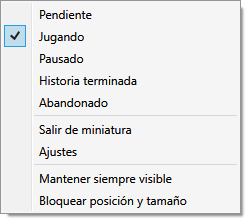
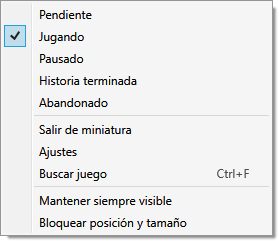
Open visible collection search from miniature and friends

diff --git a/src/Checkpoint.App/NativeSmokeTests.cs b/src/Checkpoint.App/NativeSmokeTests.cs
@@ -428,6 +428,8 @@ public partial class MainWindow
                 miniatureRow.ContextMenu.Items.OfType<MenuItem>().Any(i => (string?)i.Header == "Exit miniature view"), "miniature game menu opens with localized English states and exit");
             Check(MiniatureAction(miniatureRow.ContextMenu,"Mantener siempre visible").Header.Equals("Always on top") &&
                 MiniatureAction(Shell.ContextMenu,"Bloquear posición y tamaño").Header.Equals("Lock position and size"), "miniature quick window actions switch to English in both menus");
+            Check((string?)MiniatureAction(miniatureRow.ContextMenu,"Buscar juego").Header == "Search games" &&
+                MiniatureAction(Shell.ContextMenu,"Buscar juego").InputGestureText == "Ctrl+F", "miniature search action is localized and exposes its shortcut");
             RenderElement(miniatureRow.ContextMenu,Path.Combine(outputDirectory,"miniature-state-menu-en.png"));
             miniatureRow.ContextMenu.IsOpen = false;
             Preferences.Language = "es"; ApplyLanguage();
@@ -457,6 +459,25 @@ public partial class MainWindow
             Preferences.GridView = true; Preferences.Compact = false; ApplyPreferences(); Refresh();
             CycleView(); Check(Preferences.MiniatureView, "view cycle enters miniature after grid");
             CycleView(); Check(!Preferences.MiniatureView && !Preferences.GridView && !Preferences.Compact, "view cycle exits miniature to list");
+            Search.Text = "Hades"; FocusCollectionSearch();
+            Check(Search.IsKeyboardFocused && Search.SelectedText == "Hades" && visibleCards.Count == 1, "collection search focuses and selects the existing query without clearing its results");
+            friendsVisible = true; Refresh(); FocusCollectionSearch();
+            Check(!friendsVisible && FriendsHost.Visibility == Visibility.Collapsed && FilterArea.IsVisible && Search.IsKeyboardFocused && Search.Text == "Hades",
+                "search from friends opens the visible collection search without changing its query");
+            Search.Clear(); Preferences.MiniatureView = true; ApplyPreferences(); Refresh();
+            double searchMiniWidth = Width, searchMiniHeight = Height;
+            MiniatureAction(Shell.ContextMenu,"Buscar juego").RaiseEvent(new RoutedEventArgs(MenuItem.ClickEvent));
+            Check(!Preferences.MiniatureView && !Store.LoadSettings().MiniatureView && FilterArea.IsVisible && Search.IsKeyboardFocused &&
+                Preferences.MiniatureWidth == searchMiniWidth && Preferences.MiniatureHeight == searchMiniHeight,
+                "miniature search menu opens and persists the normal view while retaining miniature dimensions");
+            Preferences.MiniatureView = true; ApplyPreferences(); Refresh(); FocusMiniatureCard(visibleCards[0]);
+            var searchRow = VisualChildren(GameList).OfType<Grid>().First(g => g.ContextMenu is not null && g.DataContext is CardView);
+            var searchMenu = searchRow.ContextMenu;
+            searchMenu.PlacementTarget = searchRow; searchMenu.IsOpen = true;
+            await Dispatcher.InvokeAsync(UpdateLayout, DispatcherPriority.ContextIdle);
+            MiniatureAction(searchMenu,"Buscar juego").RaiseEvent(new RoutedEventArgs(MenuItem.ClickEvent)); searchMenu.IsOpen = false;
+            await Task.Delay(20); await Dispatcher.InvokeAsync(UpdateLayout, DispatcherPriority.ContextIdle);
+            Check(!Preferences.MiniatureView && Search.IsKeyboardFocused && FilterArea.IsVisible, "game search menu keeps focus in the visible search after the popup closes");
             File.WriteAllText(Path.Combine(outputDirectory, "smoke.json"), JsonSerializer.Serialize(new { ok = true, checks = checks.Count, assertions = checks }, DataJson.Options));
             Console.WriteLine($"WPF smoke test passed: {checks.Count} checks, {outputDirectory}");
         }

diff --git a/src/Checkpoint.App/MainWindow.xaml.cs b/src/Checkpoint.App/MainWindow.xaml.cs
@@ -117,7 +117,7 @@ public partial class MainWindow : Window
         PreviewKeyDown += (_, e) =>
         {
             if (e.Key == Key.N && Keyboard.Modifiers == ModifierKeys.Control) { Dialogs.Edit(this, null); e.Handled = true; }
-            if (e.Key == Key.F && Keyboard.Modifiers == ModifierKeys.Control) { Search.Focus(); e.Handled = true; }
+            if (e.Key == Key.F && Keyboard.Modifiers == ModifierKeys.Control) { FocusCollectionSearch(); e.Handled = true; }
             if (e.Key == Key.F6) { CycleView(); e.Handled = true; }
             if (e.Key == Key.Z && Keyboard.Modifiers == ModifierKeys.Control && Keyboard.FocusedElement is not TextBoxBase) { UndoLastDeletion(); e.Handled = true; }
             if (e.Key == Key.Escape) { Hide(); e.Handled = true; }
@@ -327,12 +327,25 @@ public partial class MainWindow : Window
         var settings = new System.Windows.Controls.MenuItem { Header = I18n.T("Ajustes") };
         settings.Click += (_, _) => Dialogs.Settings(this);
         menu.Items.Add(restore); menu.Items.Add(settings);
+        var search = new System.Windows.Controls.MenuItem { Header = I18n.T("Buscar juego"), InputGestureText = "Ctrl+F" };
+        search.Click += (_, _) => FocusCollectionSearch();
+        menu.Items.Add(search);
         menu.Items.Add(new Separator());
         var pin = new System.Windows.Controls.MenuItem { Header = I18n.T("Mantener siempre visible"), IsCheckable = true, IsChecked = Preferences.AlwaysOnTop };
         pin.Click += (_, _) => { Preferences.AlwaysOnTop = pin.IsChecked; ApplyPreferences(); Persist(); };
         var position = new System.Windows.Controls.MenuItem { Header = I18n.T("Bloquear posición y tamaño"), IsCheckable = true, IsChecked = Preferences.PositionLocked };
         position.Click += (_, _) => { Preferences.PositionLocked = position.IsChecked; ApplyPreferences(); Persist(); };
         menu.Items.Add(pin); menu.Items.Add(position);
+    }
+    private void FocusCollectionSearch()
+    {
+        friendsVisible = false;
+        if (Preferences.MiniatureView)
+        {
+            Preferences.MiniatureView = false; Preferences.GridView = false; Preferences.Compact = false;
+            ApplyPreferences(); CaptureBounds(); Store.SaveSettings(Preferences);
+        }
+        Refresh(); Search.Focus(); Search.SelectAll();
     }
     private void CycleView()
     {

diff --git a/README.es.md b/README.es.md
@@ -18,12 +18,12 @@ Capturas de la aplicación Windows 0.6.1 renderizadas durante las pruebas nativa
 
 ## Descargar y utilizar
 
-La versión actual es **0.6.8**. En la carpeta `dist` se generan:
+La versión actual es **0.6.9**. En la carpeta `dist` se generan:
 
-Descarga el portable o instalador desde [GitHub Releases](https://github.com/Nicolasmf05/Checkpoint/releases/tag/v0.6.8), o compila con las instrucciones de este repositorio. El workflow **Build and verify** también genera el ZIP y MSI como artefactos cuando finaliza correctamente.
+Descarga el portable o instalador desde [GitHub Releases](https://github.com/Nicolasmf05/Checkpoint/releases/tag/v0.6.9), o compila con las instrucciones de este repositorio. El workflow **Build and verify** también genera el ZIP y MSI como artefactos cuando finaliza correctamente.
 
-- `Checkpoint-0.6.8-win-x64.msi`: instalador por usuario con acceso en el menú Inicio y desinstalación desde Windows.
-- `Checkpoint-0.6.8-win-x64.zip`: edición portable. Extrae el ZIP y abre `Checkpoint/Checkpoint.exe`. Todos los archivos quedan dentro de la carpeta `Checkpoint`.
+- `Checkpoint-0.6.9-win-x64.msi`: instalador por usuario con acceso en el menú Inicio y desinstalación desde Windows.
+- `Checkpoint-0.6.9-win-x64.zip`: edición portable. Extrae el ZIP y abre `Checkpoint/Checkpoint.exe`. Todos los archivos quedan dentro de la carpeta `Checkpoint`.
 - Archivos `.sha256`: comprobación de integridad.
 
 Los paquetes incluyen el runtime de .NET; el usuario no necesita instalar herramientas de desarrollo. La versión x64 está dirigida a Windows 11; Windows 10 no ha sido validado. La compilación ARM64 está preparada en el script, pero no se ha probado en hardware ARM.
@@ -40,6 +40,7 @@ Windows x64 (Windows 11 probado), carpeta accesible para tu usuario y espacio pa
 
 - **Cambio rápido de estado en Miniatura:** clic derecho sobre un juego para elegir su estado. El actual aparece marcado; se guarda sin salir de la lista de nombre/estado.
 - **Acciones de ventana en Miniatura:** clic derecho en el fondo o un juego para activar Mantener siempre visible o Bloquear posición y tamaño. Las marcas reflejan los ajustes guardados.
+- **Búsqueda desde cualquier vista:** Ctrl+F abre la búsqueda de la colección y selecciona su consulta actual. Desde Miniatura vuelve a la lista normal y conserva su tamaño pequeño; desde Amigos vuelve a la colección. Los menús de Miniatura también ofrecen Buscar juego.
 - **Teclado en Miniatura:** ↑/↓ recorren juegos, Inicio/Fin van al primero/último y Enter/Espacio abren el menú de estados. Un contorno marca la fila activa; recupera el foco al cerrar el menú o cambiar estado.
 - **Vista Miniatura:** solo nombres y estados en una ventana pequeña y translúcida. Ajustes → Vista de la colección → Miniatura, o cambia con F6. Clic derecho → Salir de miniatura. Tamaño independiente del widget normal; se mueve desde el borde superior. Muestra Mi lista, sin filtros ni descargas de carátulas.
 - **Modo ligero opcional:** Ajustes → Modo ligero (sin carátulas). Oculta imágenes de colección/amigos, evita nuevas descargas y vacía la caché decodificada. Conserva el progreso y los archivos guardados.
@@ -61,7 +62,7 @@ Windows x64 (Windows 11 probado), carpeta accesible para tu usuario y espacio pa
 
 **Historia terminada y todos los logros son independientes.** La sincronización nunca decide que has terminado una historia y conserva los datos previos si Steam falla.
 
-Atajos: `Ctrl+Alt+C` muestra u oculta; `Ctrl+N` añade un juego; `Ctrl+F` busca; `F6` alterna las tres vistas; `Ctrl+Z` recupera el último juego eliminado cuando no estás editando texto; `Escape` oculta. Si otro programa ocupa `Ctrl+Alt+C`, puedes abrir Checkpoint desde la bandeja.
+Atajos: `Ctrl+Alt+C` muestra u oculta; `Ctrl+N` añade un juego; `Ctrl+F` busca; `F6` alterna lista, compacta, cuadrícula y Miniatura; `Ctrl+Z` recupera el último juego eliminado cuando no estás editando texto; `Escape` oculta. Si otro programa ocupa `Ctrl+Alt+C`, puedes abrir Checkpoint desde la bandeja.
 
 Para reordenar, arrastra el asa `⠿` de un juego hasta otro: la mitad superior coloca antes y la inferior después. También puedes enfocar el asa con Tab y usar `Alt+↑` / `Alt+↓`. Los favoritos permanecen arriba; puedes reordenar dentro de cada grupo. Los juegos ocultos por los filtros conservan su orden relativo. El botón de vista de la esquina inferior y Ajustes permiten elegir lista, compacta o cuadrícula; esta última cambia de columnas al redimensionar.
 
@@ -137,7 +138,7 @@ dotnet run --project src/Checkpoint.App -c Release --no-build -- --data-dir "$PW
 
 Usa siempre una carpeta nueva para `--smoke-test`: esta comprobación modifica su biblioteca de prueba y rechaza una carpeta con biblioteca o sesión existentes. El modo `--demo` añade tres juegos de ejemplo únicamente a una biblioteca vacía. No inventa logros. Las pruebas de Steam y las pruebas del diálogo de logros usan respuestas simuladas y no necesitan contraseñas ni claves reales.
 
-`Build.ps1` comprueba también el ZIP recién generado: lo extrae a `.qa`, ejecuta su app autocontenida y valida búsqueda, vistas, reordenación, persistencia, diálogos, secretos, recuperación, copias con imágenes, cuentas y amistades simuladas, y virtualización con 1.003 juegos. Puedes repetir solo esa comprobación con `./scripts/Verify-Package.ps1 -ZipPath ./dist/Checkpoint-0.6.8-win-x64.zip`. Las imágenes y el informe quedan en `.qa/package-…/render`. La ejecución ARM64 necesita un equipo Windows ARM64; en otros equipos se comprueba la estructura del paquete.
+`Build.ps1` comprueba también el ZIP recién generado: lo extrae a `.qa`, ejecuta su app autocontenida y valida búsqueda, vistas, reordenación, persistencia, diálogos, secretos, recuperación, copias con imágenes, cuentas y amistades simuladas, y virtualización con 1.003 juegos. Puedes repetir solo esa comprobación con `./scripts/Verify-Package.ps1 -ZipPath ./dist/Checkpoint-0.6.9-win-x64.zip`. Las imágenes y el informe quedan en `.qa/package-…/render`. La ejecución ARM64 necesita un equipo Windows ARM64; en otros equipos se comprueba la estructura del paquete.
 
 La integración con una cuenta real y la instalación/desinstalación del MSI deben validarse en un entorno de lanzamiento antes de publicar. Consulta [docs/VALIDATION.md](docs/VALIDATION.md).
 
@@ -147,11 +148,11 @@ El proyecto incluye `.gitignore`, licencia MIT, documentación, pruebas y un wor
 
 Publica únicamente los archivos de código y documentación. `.tools`, `.qa`, `dist`, `.env`, bases de datos y tokens son locales y se excluyen.
 
-También se entrega `dist/Checkpoint-source-0.6.8.zip`, con el código limpio para trasladarlo a GitHub. `scripts/Export-Source.ps1` lo regenera usando ripgrep y las exclusiones de `.gitignore`. La versión de los ejecutables, nombres de archivo e instalador se toma de `Directory.Build.props`.
+También se entrega `dist/Checkpoint-source-0.6.9.zip`, con el código limpio para trasladarlo a GitHub. `scripts/Export-Source.ps1` lo regenera usando ripgrep y las exclusiones de `.gitignore`. La versión de los ejecutables, nombres de archivo e instalador se toma de `Directory.Build.props`.
 
 ## Próximas versiones
 
-El backend de cuentas y amistades está desplegado en Supabase y la app 0.6.8 incorpora la pestaña Amigos. Han pasado 33 comprobaciones SQL y 7 HTTP del backend; queda validar el registro y el intercambio de imágenes con dos cuentas reales. El estado, configuración pública y pasos pendientes están en [docs/SUPABASE.md](docs/SUPABASE.md).
+El backend de cuentas y amistades está desplegado en Supabase y la app 0.6.9 incorpora la pestaña Amigos. Han pasado 33 comprobaciones SQL y 7 HTTP del backend; queda validar el registro y el intercambio de imágenes con dos cuentas reales. El estado, configuración pública y pasos pendientes están en [docs/SUPABASE.md](docs/SUPABASE.md).
 
 Notificaciones, estadísticas mensuales y sincronización de la biblioteca entre equipos quedan para futuras versiones. Consulta [docs/ROADMAP.md](docs/ROADMAP.md) y [CHANGELOG.md](CHANGELOG.md).
 

diff --git a/README.md b/README.md
@@ -18,13 +18,13 @@ Captures use real WPF controls rendered during native tests. Games, users and fr
 
 ## Download and run
 
-Current version: **0.6.8**. Build outputs in `dist`:
+Current version: **0.6.9**. Build outputs in `dist`:
 
-- `Checkpoint-0.6.8-win-x64.zip`: portable edition. Extract the ZIP and open `Checkpoint/Checkpoint.exe`. All files stay inside the `Checkpoint` folder.
-- `Checkpoint-0.6.8-win-x64.msi`: per-user installer with Start menu shortcut and Windows uninstall support.
+- `Checkpoint-0.6.9-win-x64.zip`: portable edition. Extract the ZIP and open `Checkpoint/Checkpoint.exe`. All files stay inside the `Checkpoint` folder.
+- `Checkpoint-0.6.9-win-x64.msi`: per-user installer with Start menu shortcut and Windows uninstall support.
 - `.sha256` files: integrity checksums.
 
-Download the portable ZIP or MSI from [GitHub Releases](https://github.com/Nicolasmf05/Checkpoint/releases/tag/v0.6.8), or build from source below. The **Build and verify** GitHub Actions workflow also produces artifacts after a successful run. Packages include the .NET runtime; end users need no development tools. Windows 11 x64 is the target. Windows 10 and ARM64 hardware have not been validated; ARM64 packaging is supported. The MSI and EXE are unsigned; Windows may warn or block them. See [Windows security messages](docs/en/WINDOWS-SECURITY.md). No private certificates are included.
+Download the portable ZIP or MSI from [GitHub Releases](https://github.com/Nicolasmf05/Checkpoint/releases/tag/v0.6.9), or build from source below. The **Build and verify** GitHub Actions workflow also produces artifacts after a successful run. Packages include the .NET runtime; end users need no development tools. Windows 11 x64 is the target. Windows 10 and ARM64 hardware have not been validated; ARM64 packaging is supported. The MSI and EXE are unsigned; Windows may warn or block them. See [Windows security messages](docs/en/WINDOWS-SECURITY.md). No private certificates are included.
 
 
 Microsoft Store packaging is being prepared separately: [MSIX build and submission guide](docs/en/MICROSOFT-STORE.md). The unsigned MSIX preview is for developer validation and does not remove warnings from the current GitHub downloads.
@@ -37,6 +37,7 @@ Windows x64 (Windows 11 tested), a user-writable folder and disk space. **No .NE
 
 - **Quick state changes in Miniature:** right-click a game to select its state. The current state is checked; changes persist without leaving the names/states-only list.
 - **Miniature window actions:** right-click the background or a game to toggle Always on top or Lock position and size. Checked values reflect saved settings.
+- **Search from any view:** Ctrl+F opens collection search and selects its current query. From Miniature it returns to the normal list, preserving the small size for next time; from Friends it returns to the collection. Miniature menus also offer Search games.
 - **Miniature keyboard controls:** Up/Down select a game, Home/End jump to the first/last, Enter/Space open its state menu. A focus outline marks the active row; focus returns after closing the menu or changing state.
 - **Miniature view:** only game names and states in a small translucent window. Settings → Collection view → Miniature, or cycle with F6. Right-click → Exit miniature view. Resize it independently from the normal widget; drag the top edge. Shows My list with no filters or cover downloads.
 - **Optional lightweight mode:** Settings → Lightweight mode (no covers). Hides collection/friend covers, skips new image downloads and clears the decoded cover cache. Progress and saved images are preserved.
@@ -116,13 +117,13 @@ dotnet run --project src/Checkpoint.App -c Release --no-build -- --data-dir "$PW
 
 Native tests reject existing libraries/sessions/publications and exercise real controls with simulated Steam/social responses. Demo adds examples only to an empty library. Build extracts and tests its self-contained ZIP, including language switching and virtualized rendering of 1,003 games. Reports and captures: `.qa/package-…/render`.
 
-Repeat using `./scripts/Verify-Package.ps1 -ZipPath ./dist/Checkpoint-0.6.8-win-x64.zip`. ARM64 execution needs Windows ARM64 hardware. [Validation](docs/en/VALIDATION.md) lists remaining real-account/Storage and clean-machine MSI checks.
+Repeat using `./scripts/Verify-Package.ps1 -ZipPath ./dist/Checkpoint-0.6.9-win-x64.zip`. ARM64 execution needs Windows ARM64 hardware. [Validation](docs/en/VALIDATION.md) lists remaining real-account/Storage and clean-machine MSI checks.
 
 ## GitHub
 
 MIT license, source, docs and build workflow are included. Set repository variable `CHECKPOINT_SERVICE_URL` for a hosted Steam service. The workflow uploads artifacts but does not publish a release automatically. Never upload `.tools`, `.qa`, `dist`, `.env`, databases, tokens or private keys.
 
-`scripts/Export-Source.ps1` creates `dist/Checkpoint-source-0.6.8.zip` using ripgrep and `.gitignore`. Versions come from `Directory.Build.props`. Built-in translations live in `src/Checkpoint.Core/Localization/en.json`, XAML keys in `src/Checkpoint.App/LocalizationKeys.json`. User content and API wire values are not translated.
+`scripts/Export-Source.ps1` creates `dist/Checkpoint-source-0.6.9.zip` using ripgrep and `.gitignore`. Versions come from `Directory.Build.props`. Built-in translations live in `src/Checkpoint.Core/Localization/en.json`, XAML keys in `src/Checkpoint.App/LocalizationKeys.json`. User content and API wire values are not translated.
 
 See [roadmap](docs/en/ROADMAP.md) and [changelog](CHANGELOG.md). Notifications, monthly statistics and private-library cloud sync are future work.
 

diff --git a/docs/DOWNLOAD-NOTES.md b/docs/DOWNLOAD-NOTES.md
@@ -31,6 +31,8 @@ Las actualizaciones conservan el juego seleccionado y recuperan su foco de tecla
 
 **Clic derecho en el fondo o un juego → Mantener siempre visible / Bloquear posición y tamaño.** Las opciones marcadas reflejan los ajustes guardados; se aplican inmediatamente y se conservan. Desbloquea desde el mismo menú para mover o redimensionar. El borde de arrastre usa un cursor normal al bloquearse. La lista conserva únicamente nombres y estados.
 
+**Ctrl+F o clic derecho → Buscar juego** abre la colección normal y enfoca su buscador. Guarda esa vista y conserva el tamaño de Miniatura para cuando vuelvas. Desde Amigos, Ctrl+F también abre la búsqueda visible de la colección. Si existe una consulta, se selecciona para sustituirla al escribir; su texto se conserva hasta cambiarlo. Miniatura sigue mostrando únicamente nombres y estados.
+
 ## Modo ligero opcional
 
 Actívalo en **Ajustes → Modo ligero (sin carátulas)**. Oculta las carátulas de colección y amigos, evita nuevas descargas de imágenes y vacía la caché de imágenes decodificadas. Los juegos, objetivos, progreso, archivos de carátulas y publicaciones se conservan; puedes desactivarlo cuando quieras. La elección queda guardada. Una descarga ya iniciada puede terminar. No desactiva Steam, la sincronización ni el envío de publicaciones pendientes.

diff --git a/docs/en/DOWNLOAD-NOTES.md b/docs/en/DOWNLOAD-NOTES.md
@@ -31,6 +31,8 @@ Updates preserve the selected game and restore its keyboard focus only if the li
 
 **Right-click the background or a game → Always on top / Lock position and size.** Checked options reflect your saved settings; changes apply immediately and persist. Unlock from the same menu to move or resize again. The drag strip uses a normal cursor while locked. The list keeps only names and states.
 
+**Ctrl+F or right-click → Search games** opens the normal collection view and focuses search. It saves that view while preserving Miniature dimensions for your next visit. From Friends, Ctrl+F also returns to the visible collection search. Any existing query is selected so you can replace it by typing; its text is preserved until you change it. Miniature itself keeps the names/states-only list.
+
 ## Optional lightweight mode
 
 Enable **Settings → Lightweight mode (no covers)**. Collection and friend covers are hidden, new image downloads are skipped and the decoded image cache is cleared. Games, goals, progress, saved cover files and publications are preserved; you can turn it off at any time. The choice is saved. An already-started download may finish. Steam, synchronization and pending publication delivery remain enabled.

diff --git a/docs/VALIDATION.md b/docs/VALIDATION.md
@@ -2,6 +2,10 @@
 
 # Validación
 
+## 0.6.9 — búsqueda visible
+
+Han pasado 275 comprobaciones: 108 de biblioteca, 15 Node, 14 Edge y 138 WPF. Cinco nuevas pruebas comprueban selección de la consulta actual, búsqueda visible desde Amigos, salida/guardado de vista normal desde el menú de Miniatura sin perder su tamaño, foco tras cerrar el menú del juego y etiqueta/atajo en inglés. Se prueba el mismo método usado por Ctrl+F; no se simula la pulsación física con modificadores. Capturas nativas actualizadas en ambos idiomas. Siguen pendientes teclado físico, instalación y cuentas reales.
+
 ## 0.6.8 — acciones de ventana en Miniatura
 
 Han pasado 270 comprobaciones: 108 de biblioteca, 15 Node, 14 Edge y 133 WPF. Las siete nuevas comprueban valores marcados, aplicación/guardado de siempre visible desde fondo y juego, bloqueo de redimensionado, cursor de arrastre, desbloqueo y traducción inmediata a inglés. Los menús nativos se capturan en ambos idiomas. No se afirma haber probado gestos físicos de arrastre, instalación/actualización ni cuentas reales.

diff --git a/docs/en/VALIDATION.md b/docs/en/VALIDATION.md
@@ -1,5 +1,9 @@
 # Validation
 
+## 0.6.9 — visible search
+
+275 checks passed: 108 core, 15 Node, 14 Edge and 138 native WPF. Five new checks cover current-query selection, visible collection search from Friends, saved normal view from the Miniature menu without losing its dimensions, search focus after closing the game menu and the English label/shortcut hint. Tests exercise the same method used by Ctrl+F; physical modifier-key input is not simulated. Native menu screenshots updated in both languages. Physical keyboard, installed packages and real accounts remain pending.
+
 ## 0.6.8 — Miniature window actions
 
 270 checks passed: 108 core, 15 Node, 14 Edge and 133 native WPF. Seven new checks cover checked values, application/persistence of Always on top from background and game menus, resize locking, drag cursor, unlocking and immediate English translation. Native menus are captured in both languages. Physical drag gestures, installed package upgrades and real accounts remain pending.

diff --git a/CHANGELOG.es.md b/CHANGELOG.es.md
@@ -2,6 +2,11 @@
 
 # Historial de cambios
 
+## 0.6.9 — 2026-10-03
+
+- Ctrl+F abre la búsqueda visible de la colección desde Miniatura o Amigos y selecciona la consulta actual, en lugar de intentar enfocar un campo oculto.
+- Menús de fondo/juego de Miniatura incluyen Buscar juego y el atajo Ctrl+F. Buscar vuelve a la lista normal y conserva el tamaño guardado de Miniatura.
+
 ## 0.6.8 — 2026-10-02
 
 - Los menús de Miniatura incluyen Mantener siempre visible y Bloquear posición y tamaño, con estado marcado, aplicación inmediata y guardado.

diff --git a/CHANGELOG.md b/CHANGELOG.md
@@ -2,6 +2,11 @@
 
 **English** · [Español](CHANGELOG.es.md)
 
+## 0.6.9 — 2026-10-03
+
+- Ctrl+F opens visible collection search from Miniature or Friends; it selects the current query instead of focusing a hidden field.
+- Miniature background/game menus add Search games with its Ctrl+F hint. Searching leaves Miniature for the normal list and preserves its saved dimensions.
+
 ## 0.6.8 — 2026-10-02
 
 - Miniature menus expose checked Always on top and Lock position and size actions; changes apply immediately and persist.
